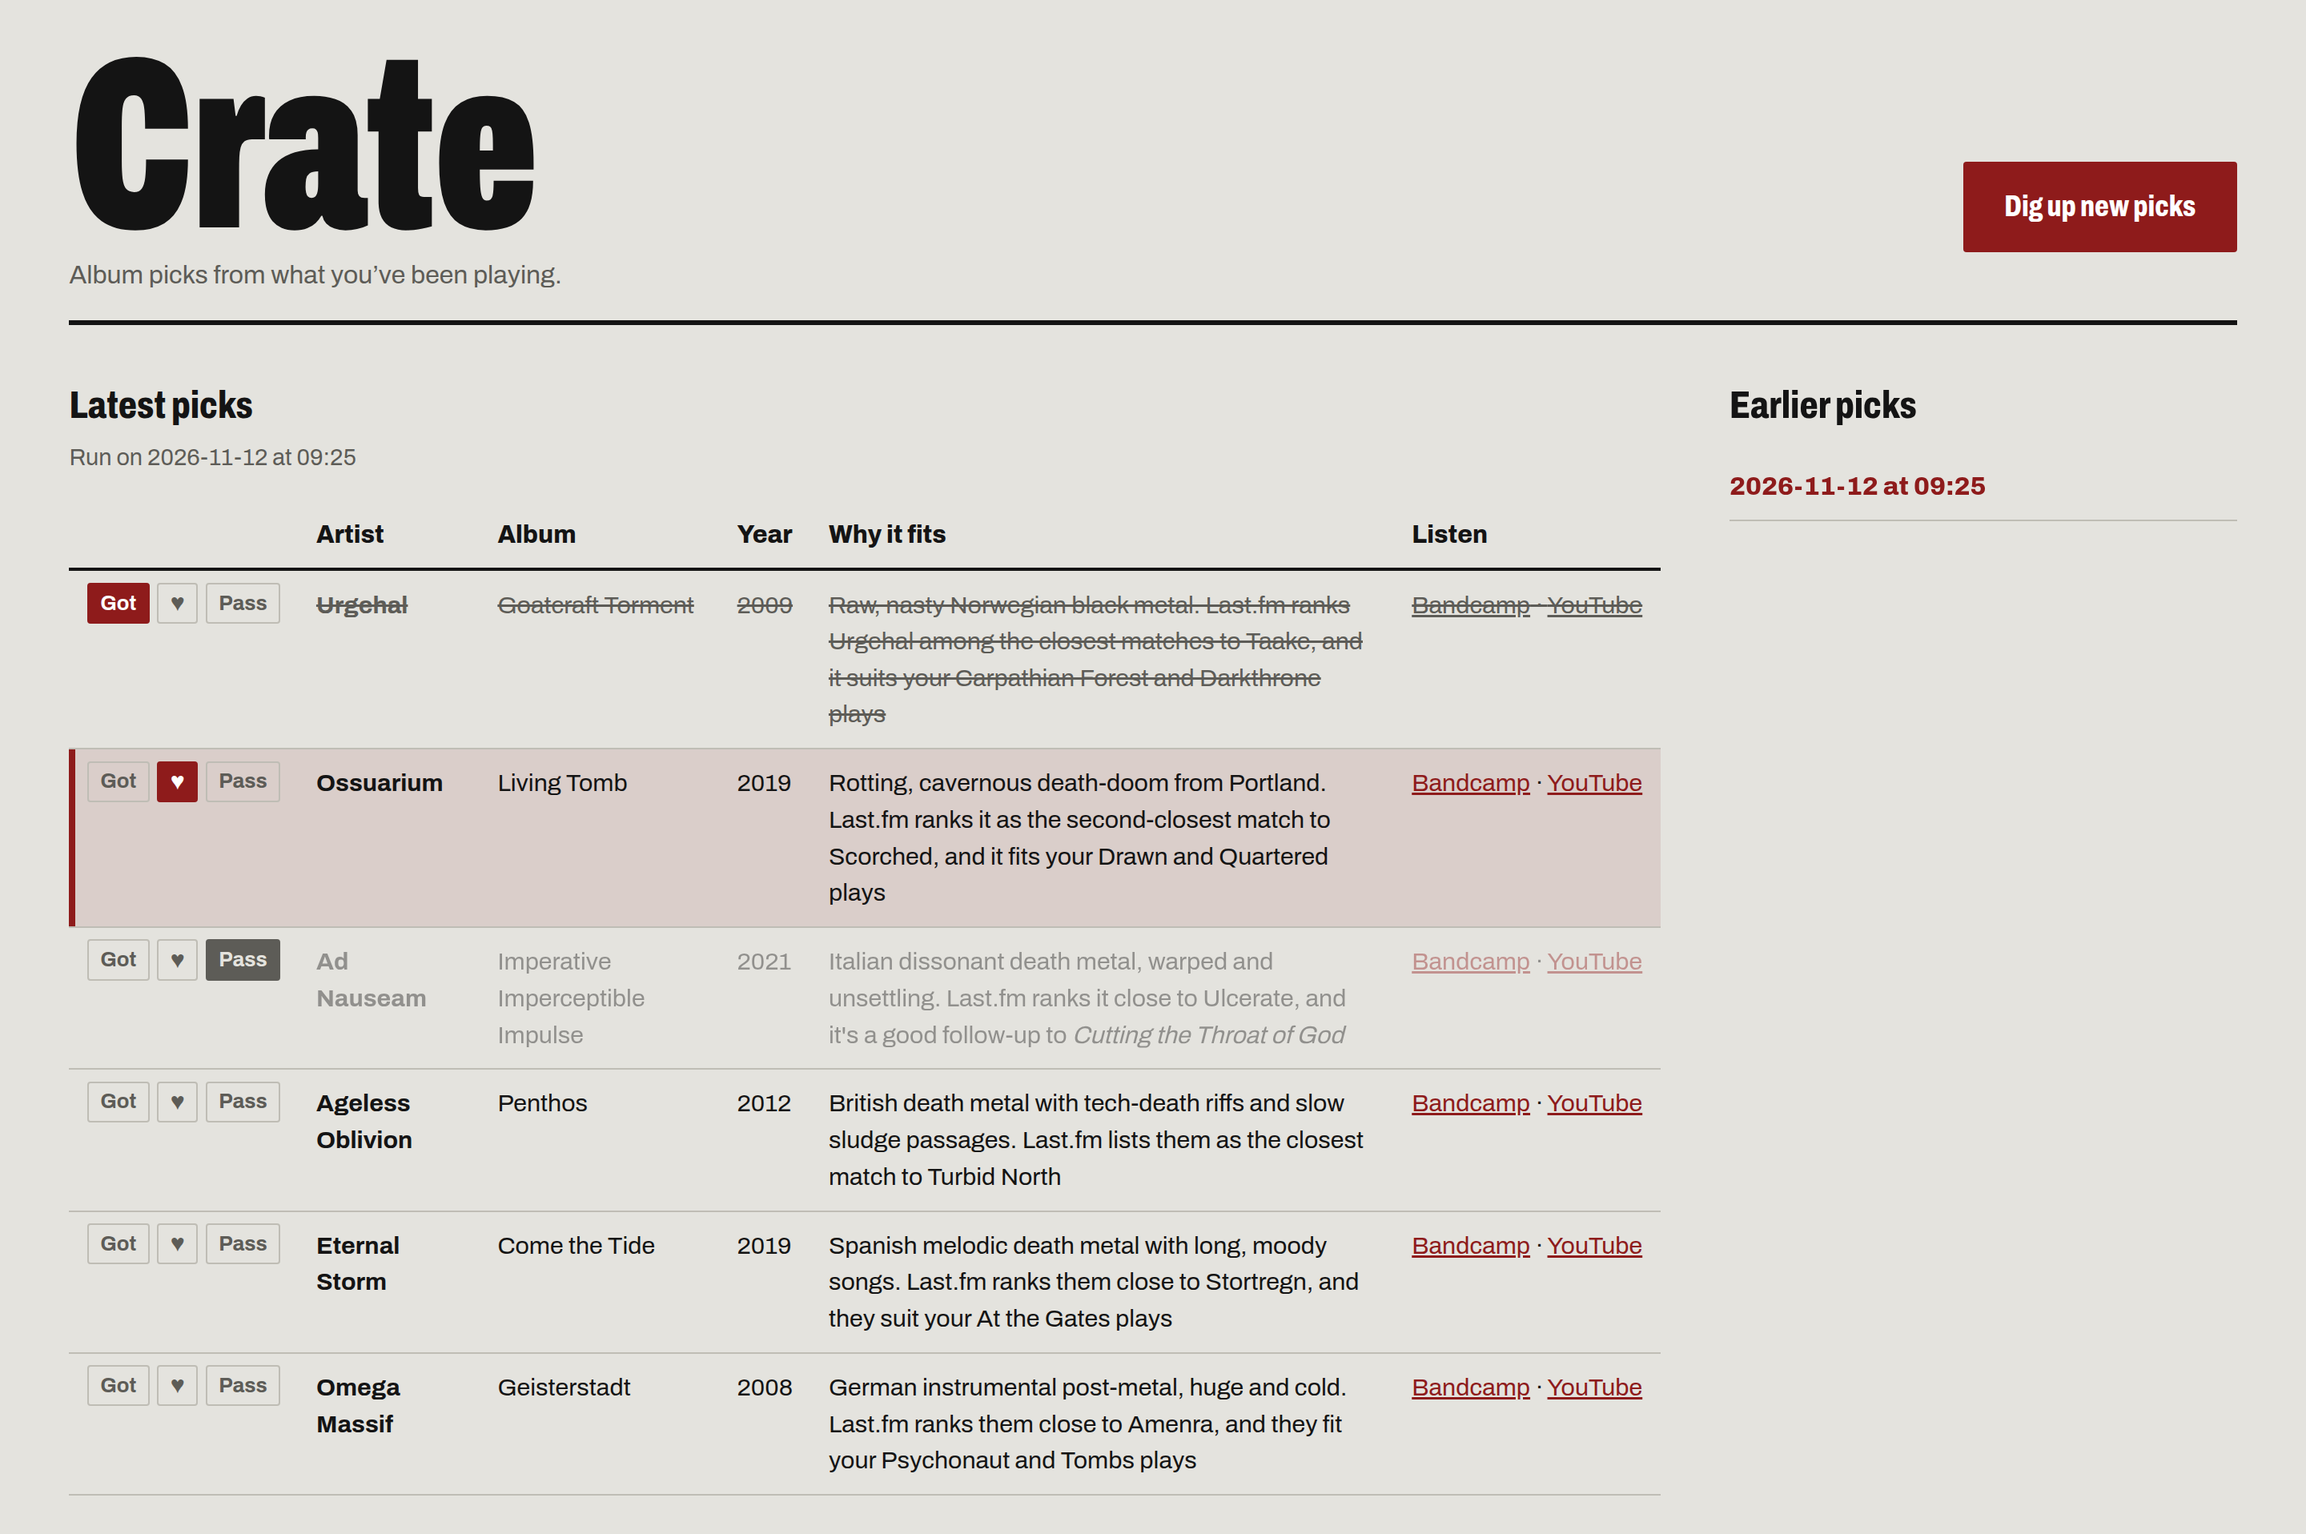
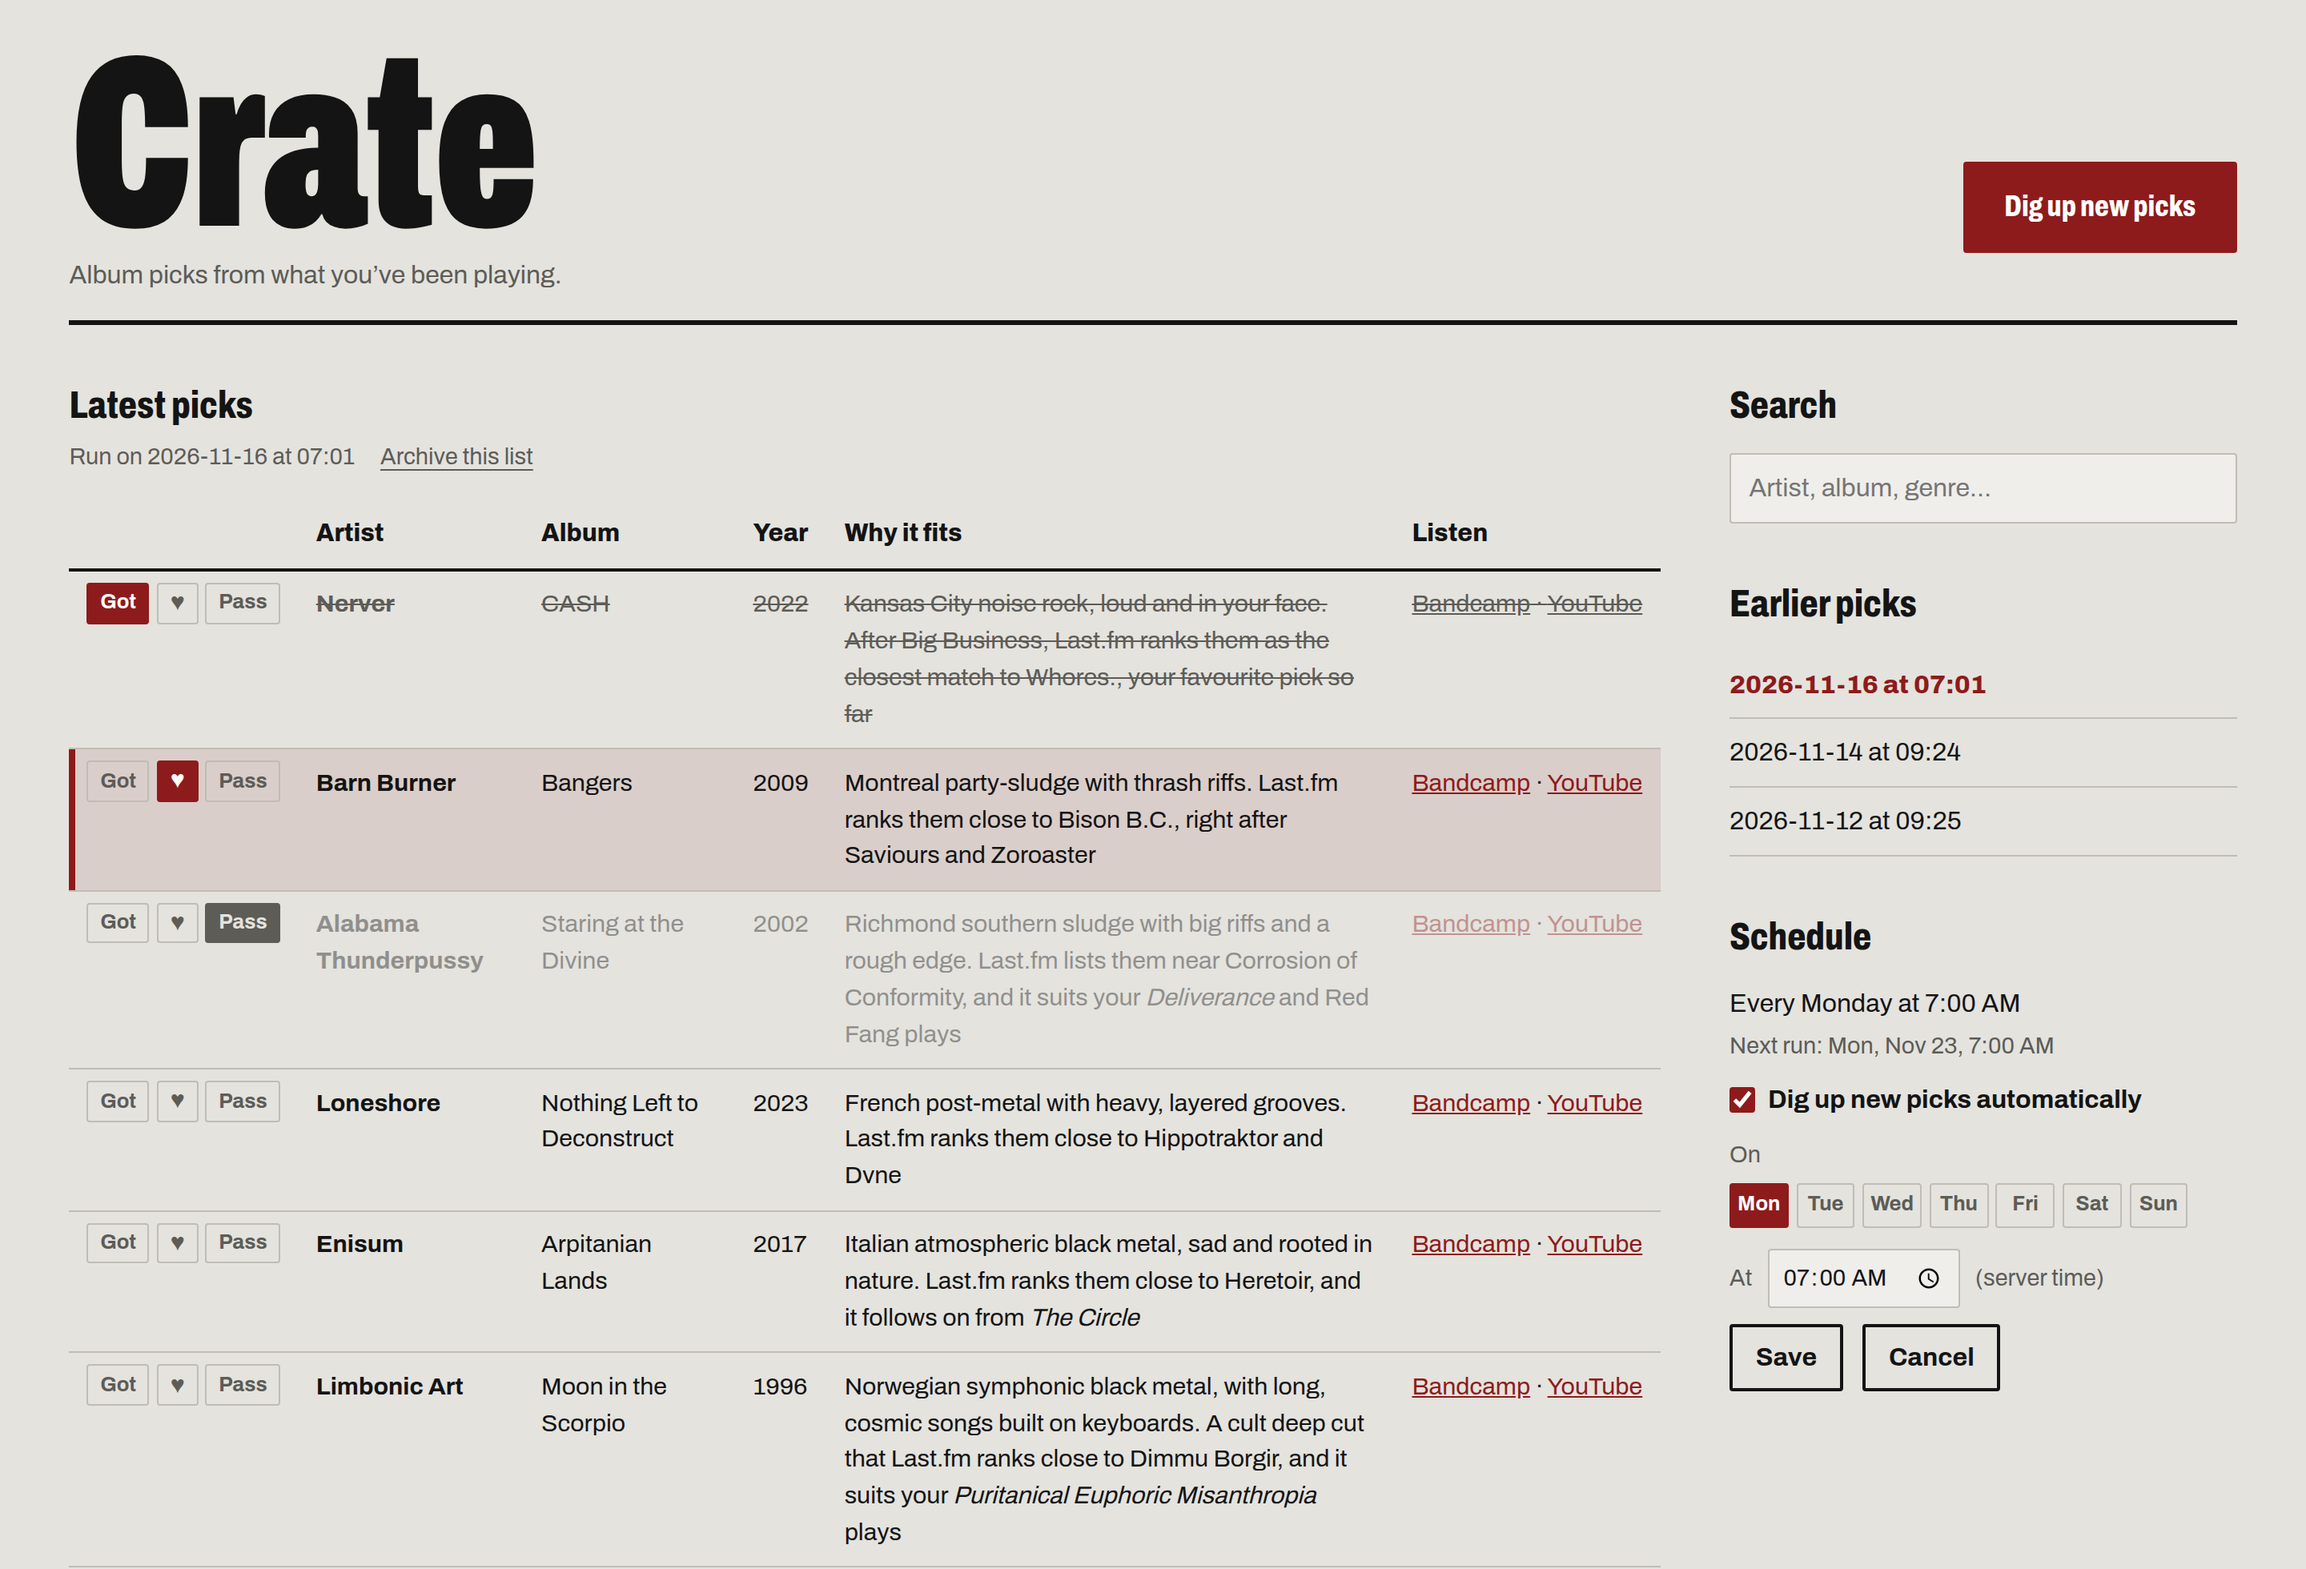
Update the README screenshot to show search and the schedule
Also note in the README that the schedule needs Crate running, and
that archived lists live in picks/archive/.

diff --git a/README.md b/README.md
@@ -2,7 +2,7 @@
 
 A small self-hosted web page that suggests albums you probably haven't heard, based on what you've been listening to.
 
-![Crate showing a table of album picks, with Got, love and Pass marks on the first three rows](docs/screenshot.png)
+![Crate showing a table of album picks with Got, love and Pass marks on the first three rows, and the sidebar with search, earlier picks and the schedule set to every Monday at 7:00 AM](docs/screenshot.png)
 
 Press **Dig up new picks** and Crate runs your prompt through an AI model: [Claude Code](https://claude.com/claude-code) by default, or any OpenAI-compatible model (OpenRouter, OpenAI, Ollama, LM Studio) if you bring your own key. The model reads your Last.fm listening history, finds similar artists, checks your [Navidrome](https://www.navidrome.org/) library so it skips albums you already own, and returns a table of 10 picks. Each pick has Bandcamp and YouTube search links so you can preview it.
 
@@ -22,7 +22,7 @@ To get new picks without pressing the button, use **Schedule** in the sidebar: p
 
 ## How it works
 
-- `app.py`: a FastAPI server that serves the page, stores your prompt and marks, and starts each run. Each run is saved to `picks/YYYY-MM-DD_HHMM.md`.
+- `app.py`: a FastAPI server that serves the page, stores your prompt, marks and schedule, and starts each run, either when you press the button or on schedule. Each run is saved to `picks/YYYY-MM-DD_HHMM.md`, and archived lists move to `picks/archive/`.
 - `agent.py`: the runner for the `openai` backend. Crate starts the MCP servers from `.mcp.json` itself and passes tool calls between them and the model.
 - `index.html`: the whole front end, in one file with no build step.
 - The prompt the model gets is your `prompt.md`, followed by your recent picks, then your loved, got and passed albums.
@@ -73,7 +73,7 @@ uv run app.py
 
 Open <http://localhost:8095>. Before your first run, press **Edit prompt** at the bottom of the page, put in your Last.fm username, describe your taste, and press **Save**. It starts from `prompt.example.md` and is saved to `prompt.md`.
 
-To keep Crate running in the background, see `crate.service.example` for a systemd user service.
+To keep Crate running in the background, see `crate.service.example` for a systemd user service. Crate has to be running for scheduled runs to happen.
 
 ## Choosing a model
 
